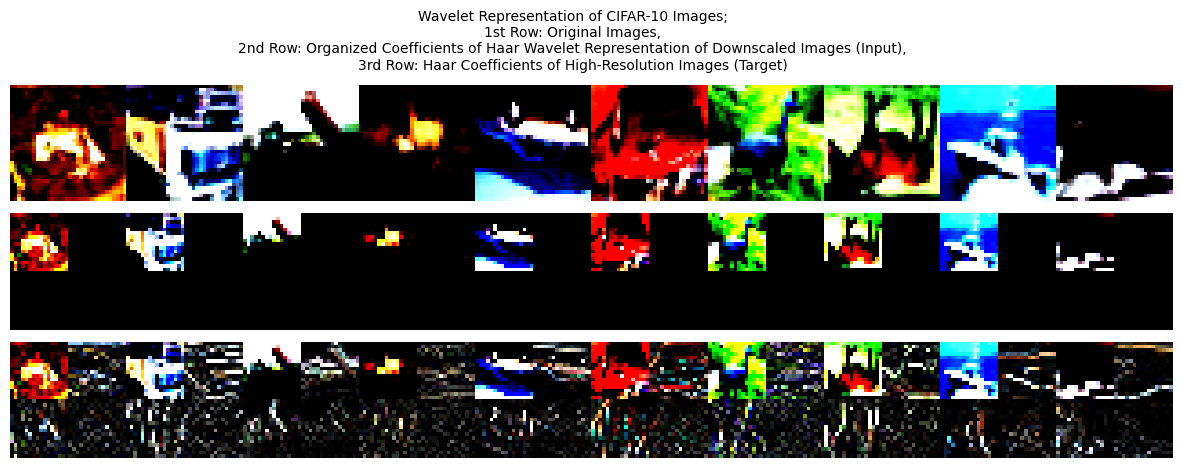
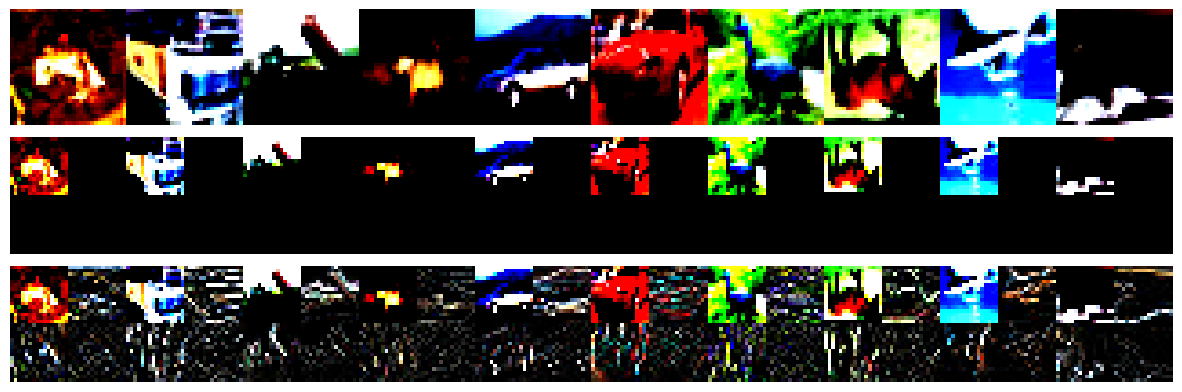
Removed Masking From Loss Func.

diff --git a/train.py b/train.py
@@ -290,8 +290,8 @@ def main(args):
             mask_expanded = haar_mask.unsqueeze(0).unsqueeze(0).expand(batch_size, pred_patches.size(1), -1, -1)
  
             loss = F.mse_loss(
-                pred_patches[mask_expanded],
-                target_data[mask_expanded]
+                pred_patches,
+                target_data
             )
             
             accelerator.backward(loss)
@@ -302,7 +302,7 @@ def main(args):
             opt.step()
             opt.zero_grad()
             running_loss += loss.item()
-
+            
         if device == "cuda":
             torch.cuda.synchronize()
             
@@ -426,7 +426,7 @@ if __name__ == "__main__":
     )
     args = parser.parse_args()
     main(args)
-        
+
     """
     # Quick Test for data generation routine. Seems to work fine!
     import matplotlib.pyplot as plt
@@ -450,11 +450,11 @@ if __name__ == "__main__":
     plt.subplots_adjust(wspace=0, hspace=0)
     
     # Add title with smaller font and less padding
-    plt.suptitle("Wavelet Representation of CIFAR-10 Images;\n"
-              "1st Row: Original Images,\n"
-              "2nd Row: Organized Coefficients of Haar Wavelet Representation of Downscaled Images (Input),\n"
-              "3rd Row: Haar Coefficients of High-Resolution Images (Target)",
-              fontsize=10, y=1.02)
+    # plt.suptitle("Wavelet Representation of CIFAR-10 Images;\n"
+    #           "1st Row: Original Images,\n"
+    #           "2nd Row: Organized Coefficients of Haar Wavelet Representation of Downscaled Images (Input),\n"
+    #           "3rd Row: Haar Coefficients of High-Resolution Images (Target)",
+    #           fontsize=10, y=1.02)
     
     # Save with tight bounding box
     plt.savefig("wavelet_representation.png", bbox_inches='tight', pad_inches=0.1)
